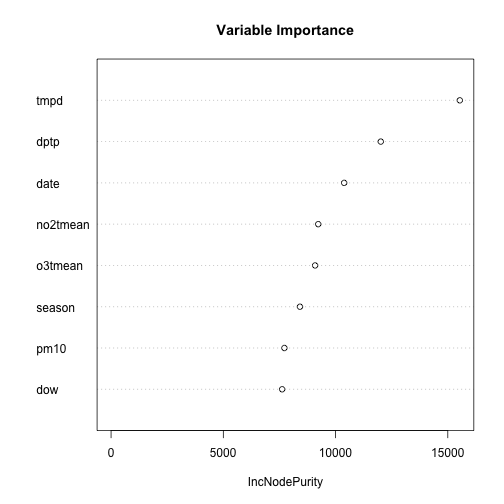
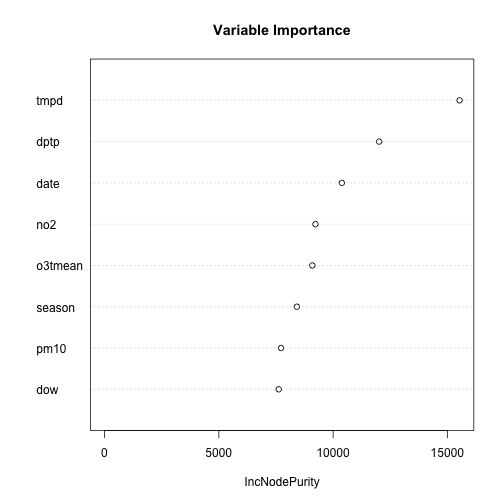
Digits

diff --git a/manuscript/inferencepred.md b/manuscript/inferencepred.md
@@ -39,10 +39,10 @@ Let's take a look at the bivariate association between PM10 and mortality. Here 
 There doesn't appear to be much going on there, and a simple linear regression model of the log of daily mortality and PM10 seems to confirm that.
 
 
-|            | Estimate| Std. Error|  t value| Pr(>&#124;t&#124;)|
-|:-----------|--------:|----------:|--------:|------------------:|
-|(Intercept) |   5.0888|     0.0069| 733.7514|             0.0000|
-|pm10        |   0.0000|     0.0007|   0.0583|             0.9535|
+|            | Estimate| Std. Error| t value| Pr(>&#124;t&#124;)|
+|:-----------|--------:|----------:|-------:|------------------:|
+|(Intercept) |    5.089|      0.007| 733.751|              0.000|
+|pm10        |    0.000|      0.001|   0.058|              0.954|
 
 In the table of coefficients above, the coefficient for `pm10` is quite small and its standard error is relatively large. Effectively, this estimate of the association is zero.
 
@@ -95,10 +95,10 @@ Finally, another class of potential confounders includes other pollutants. Befor
 |seasonQ4    |  -0.0275|     0.0185| -1.4874|             0.1382|
 |tmpd        |  -0.0030|     0.0013| -2.3092|             0.0217|
 |dptp        |   0.0007|     0.0010|  0.6809|             0.4966|
-|no2tmean    |   0.0013|     0.0009|  1.4677|             0.1434|
+|no2         |   0.0013|     0.0009|  1.4677|             0.1434|
 |pm10        |   0.0017|     0.0008|  2.2209|             0.0273|
 
-Notice in the table of coefficients that the `no2tmean` coefficient is similar in magnitude to the `pm10` coefficient, although its `t value` is not as large. The `pm10` coefficient appears to be statistically significant, but it is somewhat smaller in magnitude now.
+Notice in the table of coefficients that the `no2` coefficient is similar in magnitude to the `pm10` coefficient, although its `t value` is not as large. The `pm10` coefficient appears to be statistically significant, but it is somewhat smaller in magnitude now.
 
 Below is a plot of the PM10 coefficient from all four of the models that we tried.
 
@@ -120,6 +120,7 @@ Notice that the variable `pm10` comes near the bottom of the list in terms of im
 However, just because PM10 is not a strong predictor of mortality doesn't mean that it does not have a relevant association with mortality. Given the tradeoffs that have to be made when developing a prediction model, PM10 is not high on the list of predictors that we would include--we simply cannot include every predictor.
 
 ## Frequently Asked Questions
+
 
 
 ## Summary
